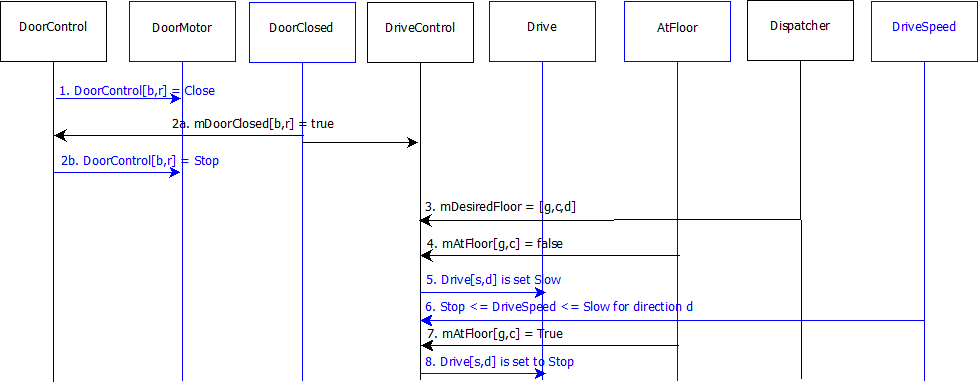
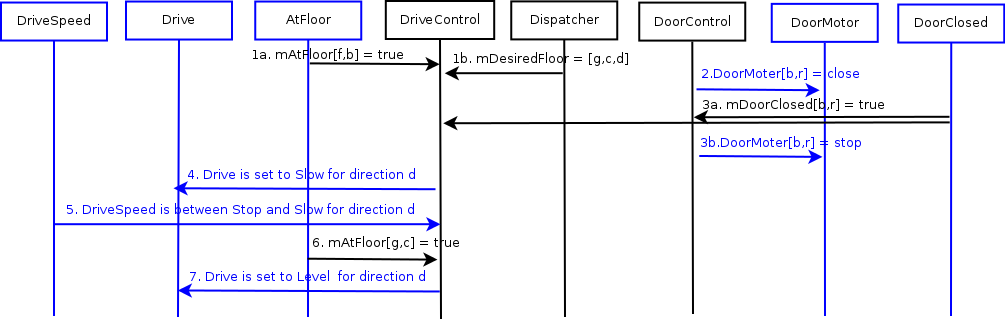
modify sq_8a and DoorControl.java

diff --git a/scen_sd/scen_sd.html b/scen_sd/scen_sd.html
@@ -645,36 +645,25 @@
       </ul>
       <h3> Scenario: </h3>
       <ol start="1" type="1">
+        <li>mAtFloor f is true, and is not the same as mDesiredFloor g.<br>
+        </li>
         <li>Door[<b>b</b>,<b>r</b>] starts closing. </li>
         <li>Door[<b>b</b>,<b>r</b>] completes closing. </li>
-        <li> Dispatcher sets mDesiredFloor[g,c,d] as true.</li>
-        <li> Car is not at floor[g,c]</li>
-        <li>Drive() is set to <b>Slow</b> for direction <b>d</b>. </li>
+        <li>Drive is set to <b>Slow</b> for direction <b>d</b>. </li>
         <li>Car starts moving towards floor <b>g</b>, DriveSpeed is
           between Stop and Slow for direction d. </li>
         <li>Car arrives at floor <b>g</b>. </li>
-        <li>Drive() is set to <b>Stop</b> for diresction <b>Stop</b>.&nbsp;
-
-
-
-
-
-
-
-
-
-
-
+        <li>Drive is set to <b>Level</b> for direction <b>Up</b>. <br>
         </li>
       </ol>
       <h3> Post-Conditions: </h3>
       <ul type="disc">
         <li>Elevator is at floor <b>g</b>. </li>
-        <li>Drive is <b>Stop</b>. </li>
+        <li>Drive is <b>Leveling</b>. </li>
         <li>All doors are closed. </li>
       </ul>
       <h3> Sequence Diagram: </h3>
-      <img alt="" src="Wenhui_8.png" height="300" width="800"><br>
+      <img alt="8a" src="Wenhui_8.png" height="320" width="1005"><br>
       <h3></h3>
       <p> <a href="Wenhui_8.png"><br>
         </a> </p>

diff --git a/simulator-current/code/simulator/elevatorcontrol/DoorControl.java b/simulator-current/code/simulator/elevatorcontrol/DoorControl.java
@@ -2,10 +2,8 @@ package simulator.elevatorcontrol;
 
 import jSimPack.SimTime;
 import jSimPack.SimTime.SimTimeUnit;
-import simulator.elevatormodules.AtFloorCanPayloadTranslator;
 import simulator.elevatormodules.CarWeightCanPayloadTranslator;
 import simulator.elevatormodules.DoorClosedCanPayloadTranslator;
-import simulator.elevatormodules.DoorMotor;
 import simulator.elevatormodules.DoorOpenedCanPayloadTranslator;
 import simulator.elevatormodules.DoorReversalCanPayloadTranslator;
 import simulator.framework.Controller;
@@ -19,9 +17,7 @@ import simulator.payloads.CanMailbox;
 import simulator.payloads.CanMailbox.ReadableCanMailbox;
 import simulator.payloads.CanMailbox.WriteableCanMailbox;
 import simulator.payloads.DoorMotorPayload;
-import simulator.payloads.DoorMotorPayload.ReadableDoorMotorPayload;
 import simulator.payloads.DoorMotorPayload.WriteableDoorMotorPayload;
-import simulator.payloads.translators.BooleanCanPayloadTranslator;
 
 /*
  * Input Interface:
@@ -71,7 +67,8 @@ public class DoorControl extends Controller {
 	private WriteableDoorMotorPayload localDoorMotor;
 	// output network message
 	private WriteableCanMailbox networkDoorMotor;
-	// no DoorMotor translator
+	//mDoorMotor
+	private DoorMotorCommandCanPayloadTranslator mDoorMotor;
 
 	// input network message
 	private Utility.AtFloorArray mAtFloor;
@@ -122,6 +119,7 @@ public class DoorControl extends Controller {
 						+ ReplicationComputer.computeReplicationId(
 								this.hallway, this.side));
 		// no doormotor translator.......
+		mDoorMotor = new DoorMotorCommandCanPayloadTranslator(networkDoorMotor, this.hallway, this.side);
 
 		// initialize mAtFloor
 		mAtFloor = new Utility.AtFloorArray(canInterface);
@@ -240,6 +238,7 @@ public class DoorControl extends Controller {
 	private void StateClosed() {
 		// do:
 		localDoorMotor.set(DoorCommand.STOP);
+		mDoorMotor.set(DoorCommand.STOP);
 		// #transition 'T5.1'
 		if ((mAtFloor.getCurrentFloor() == mDesiredFloor.getFloor())
 				&& (mDesiredFloor.getHallway() == hallway || mDesiredFloor.getHallway() == Hallway.BOTH)
@@ -250,6 +249,7 @@ public class DoorControl extends Controller {
 	private void StateOpening() {
 		// do:
 		localDoorMotor.set(DoorCommand.OPEN);
+		mDoorMotor.set(DoorCommand.OPEN);
 		// set countDown
 		countDown = DWELL;
 		// #transition 'T5.2'
@@ -260,6 +260,7 @@ public class DoorControl extends Controller {
 	private void StateOpen() {
 		// do:
 		localDoorMotor.set(DoorCommand.STOP);
+		mDoorMotor.set(DoorCommand.STOP);
 		// countdown decremented
 		countDown = SimTime.subtract(countDown, period);
 		// #transition 'T5.3'
@@ -272,6 +273,7 @@ public class DoorControl extends Controller {
 	private void StateClosing() {
 		// do:
 		localDoorMotor.set(DoorCommand.CLOSE);
+		mDoorMotor.set(DoorCommand.CLOSE);
 		// #transition 'T5.4'
 		if (mDoorClosed.getValue() == true){
 			newState = State.STATE_CLOSED;
@@ -290,6 +292,7 @@ public class DoorControl extends Controller {
 	private void StateReopening() {
 		// do:
 		localDoorMotor.set(DoorCommand.OPEN);
+		mDoorMotor.set(DoorCommand.OPEN);
 		countDown = DWELL;
 		// #transition 'T5.7'
 		if (mDoorOpened.getValue() == true)
@@ -299,6 +302,7 @@ public class DoorControl extends Controller {
 	private void StateReopen() {
 		// do:
 		localDoorMotor.set(DoorCommand.STOP);
+		mDoorMotor.set(DoorCommand.STOP);
 		// countdown decremented
 		countDown = SimTime.subtract(countDown, period);
 		// #transition 'T5.8'
@@ -310,6 +314,7 @@ public class DoorControl extends Controller {
 	private void StateNudging() {
 		// do:
 		localDoorMotor.set(DoorCommand.NUDGE);
+		mDoorMotor.set(DoorCommand.NUDGE);
 		// #transition 'T5.9'
 		if (mDoorReversal.getValue() == true)
 			newState = State.STATE_REOPENING;
